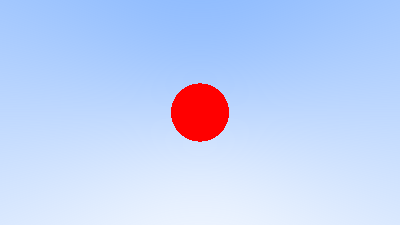
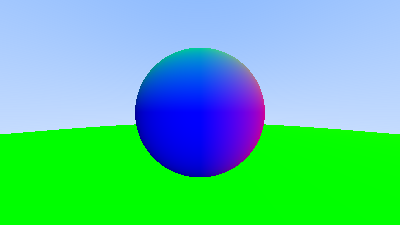
World creation

diff --git a/src/image/hittable.rs b/src/image/hittable.rs
@@ -1,0 +1,99 @@
+use crate::image::ray::Ray;
+use crate::image::utility;
+use crate::image::vector::{Color, Vector};
+
+#[derive(Default)]
+pub struct HitRecord {
+    pub p: Vector,
+    pub t: f64,
+    pub normal: Vector,
+    pub front_face: bool,
+}
+
+impl HitRecord {
+    pub fn set_face_normal(&mut self, r: Ray, outward_normal: Vector) {
+        self.front_face = r.direction().dot(outward_normal) < 0.0;
+        if self.front_face {
+            self.normal = outward_normal;
+        } else {
+            self.normal = -1.0 * outward_normal;
+        }
+    }
+}
+
+pub struct Sphere {
+    pub center: Vector,
+    pub radius: f64,
+}
+
+impl Sphere {
+    pub fn new(center: Vector, radius: f64) -> Self {
+        Self {
+            center: center,
+            radius: radius,
+        }
+    }
+    pub fn hit(&self, ray: Ray, ray_t: utility::Interval, rec: &mut HitRecord) -> bool {
+        let oc = self.center - ray.origin();
+        let a = ray.direction().len_squared();
+        let h = ray.direction().dot(oc);
+        let c = oc.len_squared() - self.radius.powf(2.0);
+        let discriminant = h.powf(2.0) - a * c;
+        if discriminant < 0.0 {
+            return false;
+        }
+        let sqrtd = discriminant.sqrt();
+        let mut root = (h - sqrtd) / a;
+        if !ray_t.surrounds(root) {
+            root = (h + sqrtd) / a;
+            if !ray_t.surrounds(root) {
+                return false;
+            }
+        }
+
+        rec.t = root;
+        rec.p = ray.at(rec.t);
+        rec.set_face_normal(ray, (rec.p - self.center) / self.radius);
+        true
+    }
+}
+
+pub enum Hittable {
+    Sphere(Sphere),
+    NoneObject,
+}
+
+pub struct HittableObjects {
+    objects: Vec<Hittable>,
+}
+
+impl HittableObjects {
+    pub fn new() -> Self {
+        Self {
+            objects: Vec::new(),
+        }
+    }
+
+    pub fn add(&mut self, hittable: Hittable) {
+        self.objects.push(hittable);
+    }
+
+    pub fn clear(&mut self) {
+        self.objects.clear();
+    }
+
+    pub fn hit(&self, ray: Ray, ray_t: utility::Interval, rec: &mut HitRecord) -> bool {
+        let mut closest_so_far = ray_t.max;
+        for object in self.objects.iter() {
+            match object {
+                Hittable::Sphere(sphere) => {
+                    if sphere.hit(ray, utility::Interval::from(ray_t.min, closest_so_far), rec) {
+                        return true;
+                    }
+                }
+                _ => {}
+            }
+        }
+        false
+    }
+}

diff --git a/src/image.rs b/src/image.rs
@@ -1,9 +1,11 @@
-use log::{info, warn};
+mod hittable;
 mod ray;
+mod utility;
 mod vector;
+use hittable::{HitRecord, Hittable, HittableObjects, Sphere};
+use image::{ImageBuffer, Rgb, RgbImage};
 use ray::Ray;
-use vector::Vector;
-use image::{RgbImage, ImageBuffer, Rgb};
+use vector::{Color, Vector};
 
 pub struct Camera {
     viewport_width: f64,
@@ -76,6 +78,7 @@ pub struct Image {
     image_height: u32,
     camera: Camera,
     buffer: RgbImage,
+    world: HittableObjects,
 }
 
 impl Image {
@@ -87,18 +90,39 @@ impl Image {
             image_height: image_height,
             camera: Camera::new(1.0, 2.0, image_width as f64, image_height as f64),
             buffer: ImageBuffer::new(image_width, image_height),
+            world: HittableObjects::new(),
         }
     }
 
     pub fn render(&mut self) {
         // println!("P3\n{} {}\n255", self.image_width, self.image_height);
+        self.world.add(Hittable::Sphere(Sphere::new(
+            Vector {
+                x: 0.0,
+                y: 0.0,
+                z: -1.0,
+            },
+            0.5,
+        )));
+        self.world.add(Hittable::Sphere(Sphere::new(
+            Vector {
+                x: 0.0,
+                y: -100.5,
+                z: -1.0,
+            },
+            100.0,
+        )));
+
         for i in 0..self.image_height {
-            info!(target: "render", "Generating Row {i:?}");
             for j in 0..self.image_width {
-                self.buffer.put_pixel(j ,i , self.camera.get_ray(j, i).color().as_pixel());
+                self.buffer.put_pixel(
+                    j,
+                    i,
+                    self.camera.get_ray(j, i).color(&self.world).as_pixel(),
+                );
             }
         }
-        info!(target: "render", "Generation Done!");
         self.buffer.save("image.png").unwrap();
+        self.world.clear();
     }
 }

diff --git a/src/image/vector.rs b/src/image/vector.rs
@@ -1,3 +1,5 @@
+use crate::image::ray::Ray;
+use crate::image::utility;
 use core::ops::{Add, Div, Mul, Sub};
 use image::Rgb;
 
@@ -10,7 +12,11 @@ pub struct Vector {
 
 impl Vector {
     pub fn len(&self) -> f64 {
-        (self.x.powf(2.0) + self.y.powf(2.0) + self.z.powf(2.0)).sqrt()
+        self.len_squared().sqrt()
+    }
+
+    pub fn len_squared(&self) -> f64 {
+        self.x.powf(2.0) + self.y.powf(2.0) + self.z.powf(2.0)
     }
     pub fn print(&self) {
         println!("Vector: {} {} {}", self.x, self.y, self.z);
@@ -103,7 +109,27 @@ pub struct Color {
 
 impl Color {
     pub fn as_pixel(&self) -> Rgb<u8> {
-       	Rgb([self.r,self.g,self.b])
+        Rgb([self.r, self.g, self.b])
+    }
+
+    pub fn from_unit_vector(unit_vector: Vector) -> Self {
+        let mut ir = unit_vector.x;
+        let mut ig = unit_vector.y;
+        let mut ib = unit_vector.z;
+        if ir < 0.0 {
+            ir += 1.0;
+        }
+        if ig < 0.0 {
+            ig += 1.0;
+        }
+        if ib < 0.0 {
+            ib += 1.0;
+        }
+        Self {
+            r: (unit_vector.x * 255.0) as u8,
+            g: (unit_vector.y * 255.0) as u8,
+            b: (unit_vector.z * 255.0) as u8,
+        }
     }
 
     pub fn black() -> Self {
@@ -117,15 +143,15 @@ impl Color {
         }
     }
 
-    pub fn red() -> Self{
-    	Self{ r: 255, g: 0, b: 0}
+    pub fn red() -> Self {
+        Self { r: 255, g: 0, b: 0 }
     }
 
-    pub fn green() -> Self{
-    	Self{ r: 0, g: 255, b: 0}
+    pub fn green() -> Self {
+        Self { r: 0, g: 255, b: 0 }
     }
-    pub fn blue() -> Self{
-    	Self{r:0,g:0,b:255}
+    pub fn blue() -> Self {
+        Self { r: 0, g: 0, b: 255 }
     }
 }
 

diff --git a/src/image/ray.rs b/src/image/ray.rs
@@ -1,3 +1,5 @@
+use crate::image::hittable::{HitRecord, HittableObjects};
+use crate::image::utility;
 use crate::image::vector::{Color, Vector};
 
 #[derive(Default, Clone, Copy)]
@@ -26,20 +28,15 @@ impl Ray {
         self.origin + self.direction * t
     }
 
-    fn hit_sphere(&self, center: Vector, radius: f64) -> bool {
-        let oc = center - self.origin();
-        let a = self.direction.dot(self.direction);
-        let b = -2.0 * self.direction.dot(oc);
-        let c = oc.dot(oc) - radius * radius;
-        let discriminant = b*b - 4.0*a*c;
-        discriminant >= 0.0
-    }
-
-    pub fn color(&self) -> Color {
-        if self.hit_sphere(Vector{x:0.0,y:0.0,z:-2.0},0.5) {
-            return Color::red();
+    pub fn color(&self, world: &HittableObjects) -> Color {
+        let mut rec = HitRecord::default();
+        if (world.hit(
+            *self,
+            utility::Interval::from(0.0, utility::INFINITY),
+            &mut rec,
+        )) {
+            return Color::from_unit_vector(rec.normal);
         }
-
         let unit_direction = self.direction.unit_vector();
         let a = 0.5 * (unit_direction.y + 1.0);
         (1.0 - a) * Color::white()

diff --git a/src/image/utility.rs b/src/image/utility.rs
@@ -1,0 +1,52 @@
+// Constants
+pub const INFINITY: f64 = f64::INFINITY;
+pub const PI: f64 = 3.1415926535897932385;
+
+// Utility Functions
+pub fn degree_to_radians(degree: f64) -> f64 {
+    return degree * PI / 180.0;
+}
+
+pub struct Interval {
+    pub min: f64,
+    pub max: f64,
+}
+
+impl Interval {
+    pub fn new() -> Self {
+        Self {
+            min: -INFINITY,
+            max: INFINITY,
+        }
+    }
+
+    pub fn from(min: f64, max: f64) -> Self {
+        Self { min: min, max: max }
+    }
+
+    pub fn size(&self) -> f64 {
+        self.max - self.min
+    }
+
+    pub fn contains(&self, x: f64) -> bool {
+        self.min <= x && self.max >= x
+    }
+
+    pub fn surrounds(&self, x: f64) -> bool {
+        self.min < x && x < self.max
+    }
+
+    pub fn Empty() -> Self {
+        Self {
+            min: INFINITY,
+            max: -INFINITY,
+        }
+    }
+
+    pub fn Universe() -> Self {
+        Self {
+            min: -INFINITY,
+            max: INFINITY,
+        }
+    }
+}

diff --git a/src/main.rs b/src/main.rs
@@ -1,4 +1,3 @@
-// use clippy;
 mod image;
 use image::Image;
 fn main() {
